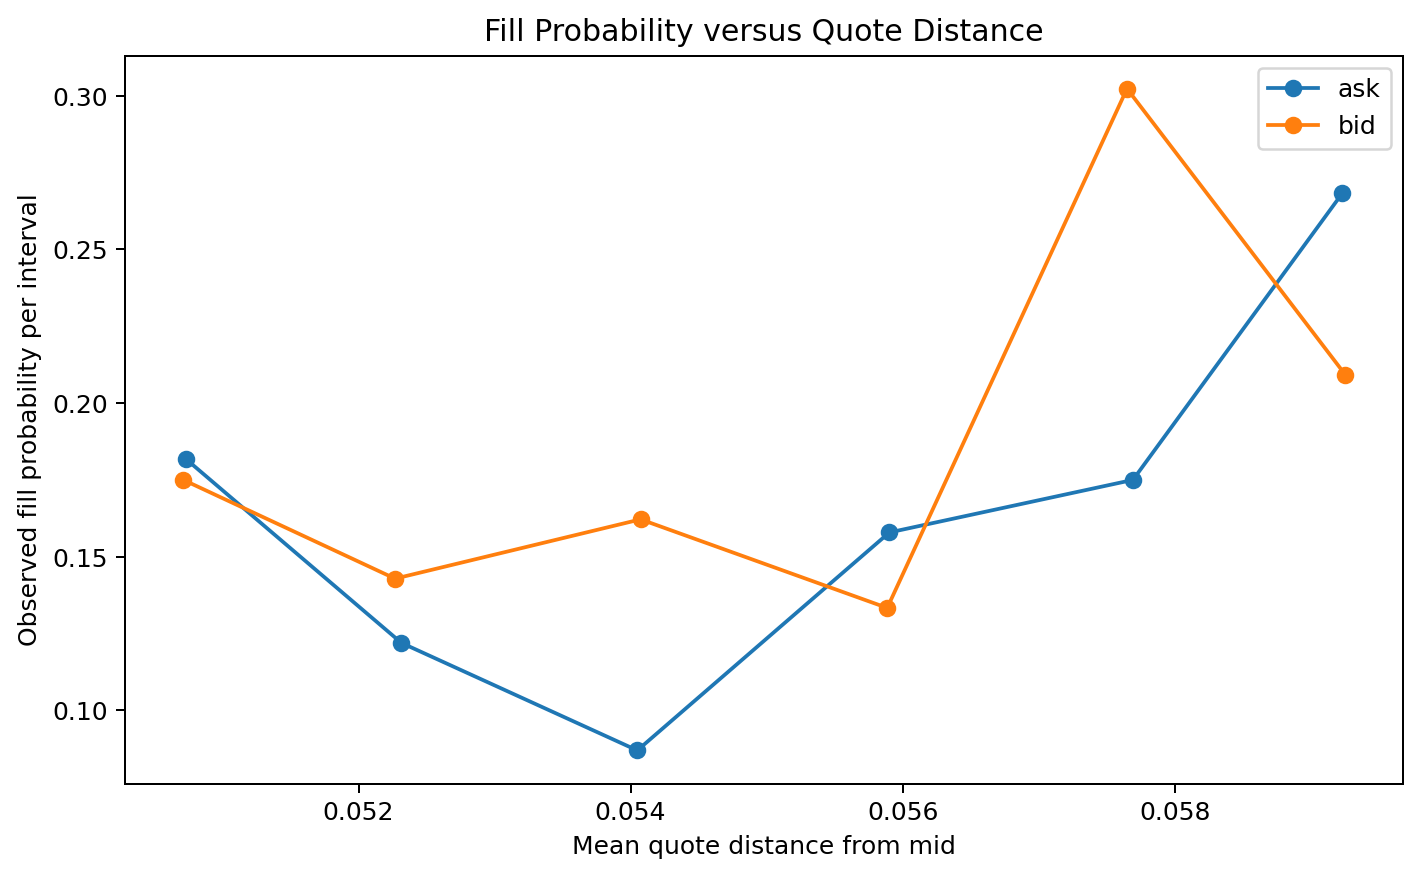
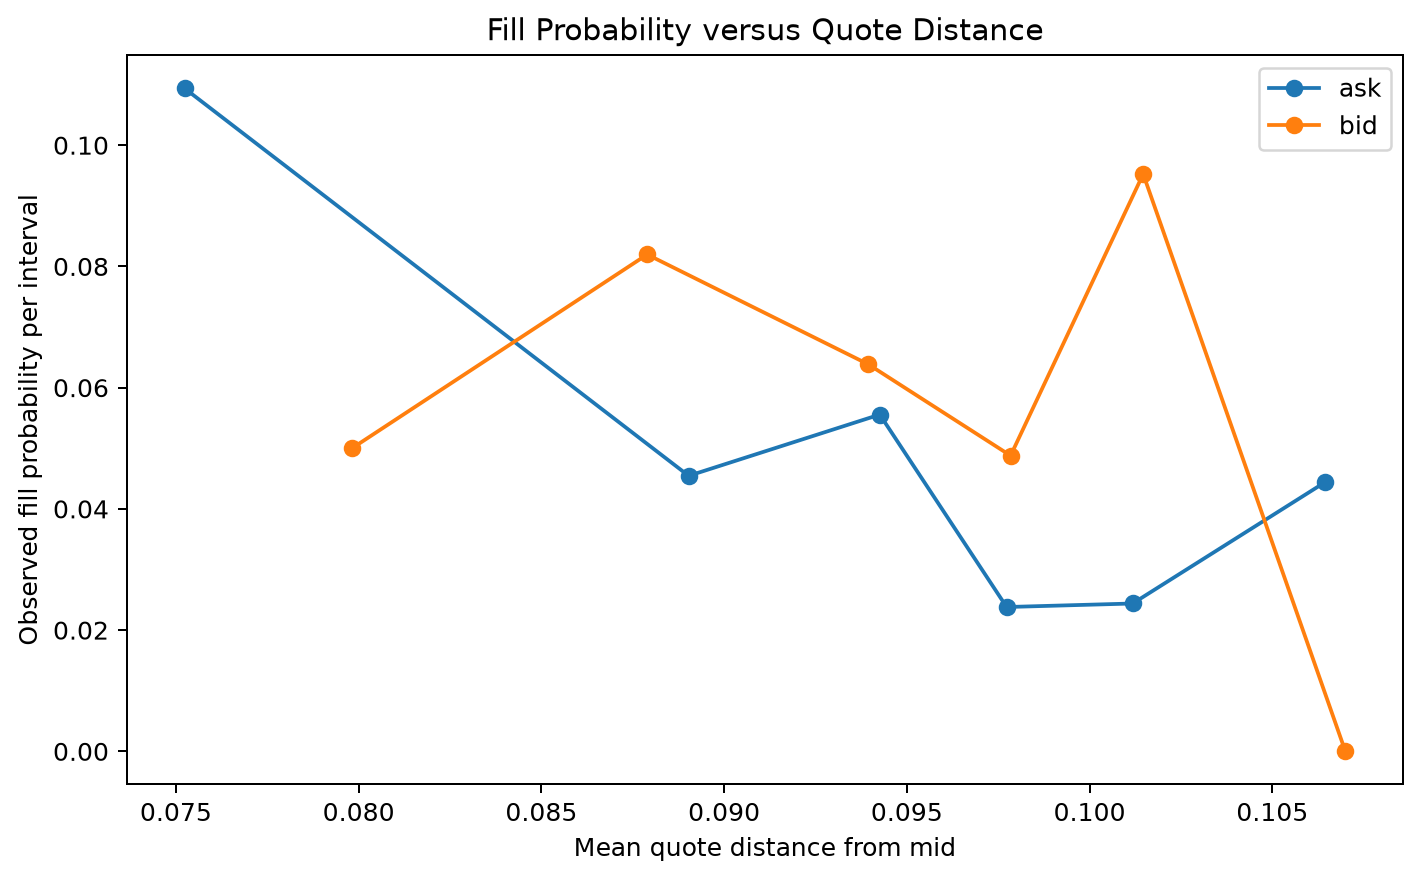
Add fill probability calibration output

diff --git a/scripts/run_all_experiments.py b/scripts/run_all_experiments.py
@@ -787,6 +787,183 @@ def representative_outputs():
     return chosen
 
 
+def build_fill_probability_calibration_table(
+    intervals: pd.DataFrame,
+) -> pd.DataFrame:
+    """Aggregate observed fill rates by quote-distance bin and side."""
+
+    bid = intervals[
+        [
+            "bid_distance",
+            "bid_fill_quantity",
+        ]
+    ].rename(
+        columns={
+            "bid_distance": "distance",
+            "bid_fill_quantity": "fill_quantity",
+        }
+    )
+
+    bid["side"] = "bid"
+
+    ask = intervals[
+        [
+            "ask_distance",
+            "ask_fill_quantity",
+        ]
+    ].rename(
+        columns={
+            "ask_distance": "distance",
+            "ask_fill_quantity": "fill_quantity",
+        }
+    )
+
+    ask["side"] = "ask"
+
+    fills = pd.concat(
+        [
+            bid,
+            ask,
+        ],
+        ignore_index=True,
+    )
+
+    fills["distance"] = pd.to_numeric(
+        fills["distance"],
+        errors="coerce",
+    )
+
+    fills["fill_quantity"] = pd.to_numeric(
+        fills["fill_quantity"],
+        errors="coerce",
+    )
+
+    fills = fills.dropna(
+        subset=[
+            "distance",
+            "fill_quantity",
+        ]
+    ).copy()
+
+    fills = fills[
+        fills["distance"] >= 0
+    ].copy()
+
+    fills["filled"] = (
+        fills["fill_quantity"] > 0
+    )
+
+    fills["distance_bin"] = pd.qcut(
+        fills["distance"],
+        q=6,
+        duplicates="drop",
+    )
+
+    fill_curve = (
+        fills.groupby(
+            [
+                "side",
+                "distance_bin",
+            ],
+            observed=True,
+        )
+        .agg(
+            mean_distance=(
+                "distance",
+                "mean",
+            ),
+            fill_probability=(
+                "filled",
+                "mean",
+            ),
+            mean_quantity=(
+                "fill_quantity",
+                "mean",
+            ),
+            observations=(
+                "filled",
+                "size",
+            ),
+        )
+        .reset_index()
+        .sort_values(
+            [
+                "side",
+                "mean_distance",
+            ],
+            kind="mergesort",
+        )
+        .reset_index(
+            drop=True
+        )
+    )
+
+    return fill_curve
+
+
+def fill_probability_calibration_figure() -> None:
+    """Reproduce the notebook fill-probability calibration diagnostic."""
+
+    result = run_path(
+        "clean",
+        DEFAULT_STRATEGIES[3],
+        50123,
+        steps=250,
+    )
+
+    fill_curve = (
+        build_fill_probability_calibration_table(
+            result.intervals
+        )
+    )
+
+    fill_curve.to_csv(
+        TAB
+        / "fill_probability_calibration.csv",
+        index=False,
+    )
+
+    fig, ax = plt.subplots(
+        figsize=(8, 5)
+    )
+
+    for side, group in fill_curve.groupby(
+        "side",
+        sort=True,
+    ):
+        ax.plot(
+            group["mean_distance"],
+            group["fill_probability"],
+            marker="o",
+            label=side,
+        )
+
+    ax.set_xlabel(
+        "Mean quote distance from mid"
+    )
+
+    ax.set_ylabel(
+        "Observed fill probability per interval"
+    )
+
+    ax.set_title(
+        "Fill Probability versus Quote Distance"
+    )
+
+    ax.legend()
+
+    fig.tight_layout()
+
+    fig.savefig(
+        FIG
+        / "10_fill_probability_calibration.png",
+        dpi=180,
+        bbox_inches="tight",
+    )
+
+    plt.close(fig)
+
+
 def figures(
     results,
     summary,
@@ -1557,6 +1734,8 @@ def main():
         attribution,
         chosen,
     )
+
+    fill_probability_calibration_figure()
 
     avellaneda_stoikov_figure(
         benchmark_summary
